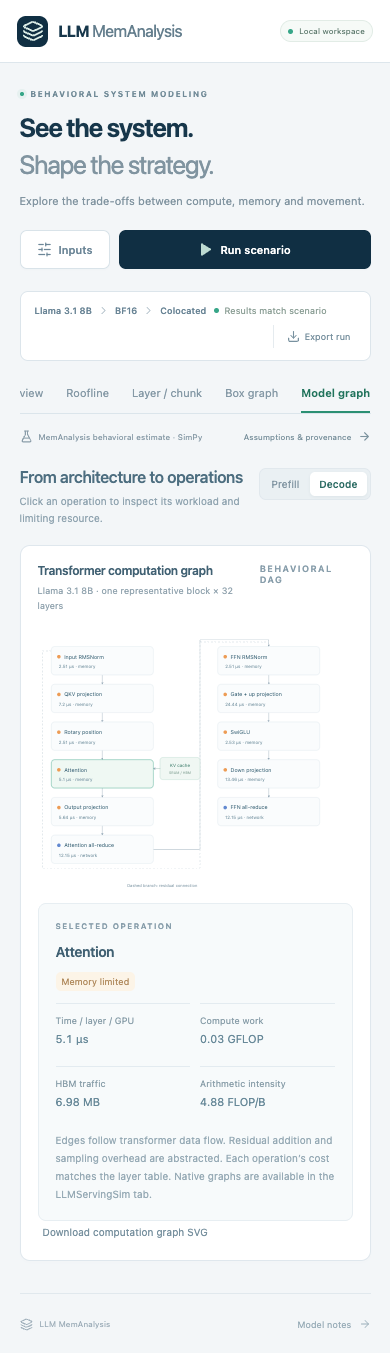
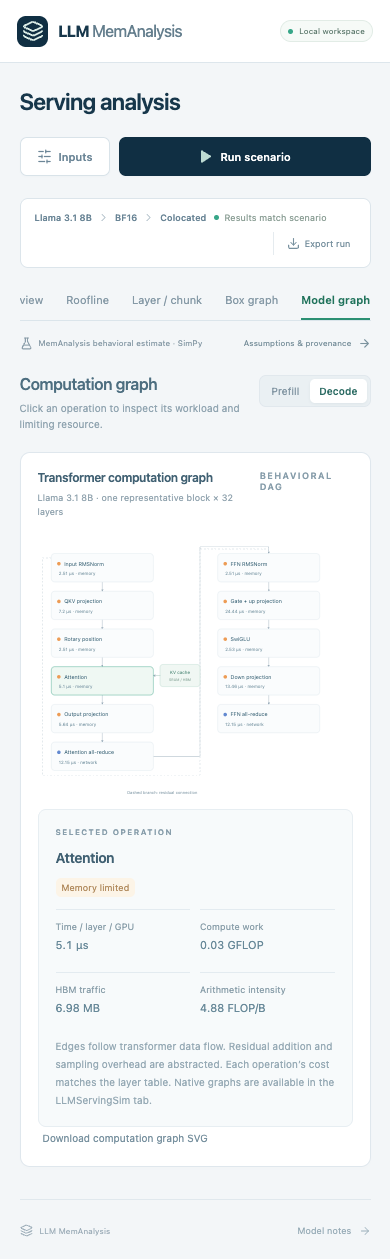
Use concise professional interface headings

diff --git a/src/main.tsx b/src/main.tsx
@@ -760,7 +760,7 @@ function Native({
         </div>
         <div>
           <div className="label">PROFILE-DRIVEN REFERENCE ENGINE</div>
-          <h2>Run KAIST’s LLMServingSim 2.0</h2>
+          <h2>LLMServingSim 2.0</h2>
           <p>
             Execute its native scheduler, Chakra graph generator and ASTRA-Sim
             analytical backend on this machine. Uses published operation
@@ -896,7 +896,7 @@ function Native({
           {!job ? (
             <div className="empty-native">
               <GitBranch size={44} />
-              <h3>A real simulator run, end to end.</h3>
+              <h3>No simulation results</h3>
               <p>
                 Run the small reference experiment to inspect native request
                 metrics and its actual computation DAG. Behavioral hardware
@@ -1331,7 +1331,7 @@ function App() {
             </button>
           </div>
           <div className="sidebar-intro">
-            A few hardware facts. A system-level view.
+            Model, workload, hardware and topology.
           </div>
           <Section title="Model & workload" initial>
             <label className="field vertical">
@@ -1556,18 +1556,9 @@ function App() {
         </aside>
         <main>
           <div className="page-heading">
-            <div>
-              <div className="eyebrow">
-                <i />
-                BEHAVIORAL SYSTEM MODELING
-              </div>
-              <h1>
-                See the system.<span> Shape the strategy.</span>
-              </h1>
-              <p>
-                Explore the trade-offs between compute, memory and movement.
-              </p>
-            </div>
+            <h1>
+              {tab === "native" ? "Native simulation" : "Serving analysis"}
+            </h1>
             <div className="run-actions">
               {tab === "native" ? (
                 <button
@@ -1713,7 +1704,7 @@ function App() {
                     <section className="card insight-card">
                       <div className="card-head">
                         <div>
-                          <h3>Where the time goes</h3>
+                          <h3>Resource service demand</h3>
                           <p>
                             Accumulated resource work · compute and memory
                             overlap
@@ -1808,7 +1799,7 @@ function App() {
                 <>
                   <div className="section-toolbar">
                     <div>
-                      <h2>Compute or bandwidth?</h2>
+                      <h2>Performance roofline</h2>
                       <p>
                         See which resource limits each transformer operation.
                       </p>
@@ -1938,7 +1929,7 @@ function App() {
                 <>
                   <div className="section-toolbar">
                     <div>
-                      <h2>Behavior over time</h2>
+                      <h2>Execution timeline</h2>
                       <p>
                         Pipeline overlap, resource occupancy and request-level
                         distributions.
@@ -1953,7 +1944,7 @@ function App() {
                 <>
                   <div className="section-toolbar">
                     <div>
-                      <h2>From architecture to operations</h2>
+                      <h2>Computation graph</h2>
                       <p>
                         Click an operation to inspect its workload and limiting
                         resource.
@@ -1968,7 +1959,7 @@ function App() {
                 <>
                   <div className="section-toolbar">
                     <div>
-                      <h2>A reproducible scenario</h2>
+                      <h2>Run configuration</h2>
                       <p>
                         Every estimate carries its inputs, formulas, units and
                         source revision.
@@ -2058,7 +2049,7 @@ function App() {
             <div className="card-head">
               <div>
                 <div className="label">SCOPE & PROVENANCE</div>
-                <h2>Two engines. Clear boundaries.</h2>
+                <h2>Simulation methods and provenance</h2>
               </div>
               <button
                 aria-label="Close methodology"

diff --git a/src/styles.css b/src/styles.css
@@ -423,38 +423,14 @@ main {
   gap: 20px;
   margin-bottom: 26px;
 }
-.eyebrow {
-  font-size: 9px;
-  font-weight: 650;
-  letter-spacing: 1.5px;
-  color: #708a97;
-  display: flex;
-  align-items: center;
-  gap: 7px;
-  margin: 2px 0 12px;
-}
-.eyebrow i {
-  width: 4px;
-  height: 4px;
-  box-shadow: 0 0 0 3px #37a68812;
-}
+
 h1 {
-  font-size: 27px;
-  font-weight: 650;
-  letter-spacing: -1.1px;
-  line-height: 1.25;
+  font-size: 24px;
+  font-weight: 600;
+  letter-spacing: -0.6px;
+  line-height: 1.3;
 }
-h1 > span {
-  color: #8094a0;
-  font-weight: 400;
-  display: block;
-  margin-top: 4px;
-}
-.page-heading p {
-  font-size: 11px;
-  color: #8295a1;
-  margin-top: 12px;
-}
+
 .run-actions {
   display: flex;
   gap: 9px;
@@ -1499,12 +1475,9 @@ td b {
     margin-bottom: 30px;
   }
   h1 {
-    font-size: 32px;
+    font-size: 26px;
   }
-  h1 > span {
-    display: inline;
-    margin: 0;
-  }
+
   .kpi-value {
     font-size: 36px;
   }
@@ -1538,10 +1511,10 @@ td b {
     padding: 27px 24px 0;
   }
   .page-heading {
-    align-items: flex-end;
+    align-items: center;
   }
   h1 {
-    font-size: 25px;
+    font-size: 24px;
   }
   .run-actions {
     flex-direction: column;
@@ -1723,14 +1696,12 @@ td b {
     flex-wrap: wrap;
     gap: 20px;
   }
-  .page-heading p {
-    font-size: 12px;
-  }
+
   .run-actions .pin-button {
     display: none;
   }
   .page-heading h1 {
-    font-size: 28px;
+    font-size: 24px;
   }
   .run-actions .primary {
     padding: 11px 16px;
@@ -1904,14 +1875,9 @@ td b {
     margin-bottom: 22px;
   }
   .page-heading h1 {
-    font-size: 26px;
+    font-size: 23px;
   }
-  .page-heading p {
-    font-size: 11px;
-  }
-  .eyebrow {
-    font-size: 8px;
-  }
+
   .run-actions {
     justify-content: space-between;
     width: 100%;

diff --git a/tests/browser/app.spec.ts b/tests/browser/app.spec.ts
@@ -21,11 +21,11 @@ test("six outputs, scenario fingerprint, reproducible exports and capacity error
   await expect(page.getByText("Results match scenario")).toBeVisible();
   await expect(page.getByText("vs pinned").first()).toBeVisible();
   for (const [name, file, check] of [
-    ["Roofline", "roofline", "Compute or bandwidth?"],
+    ["Roofline", "roofline", "Performance roofline"],
     ["Layer / chunk", "layers", "Layer and chunk detail"],
-    ["Box graph", "boxes", "Behavior over time"],
-    ["Model graph", "computation-graph", "From architecture to operations"],
-    ["Configuration", "configuration", "A reproducible scenario"],
+    ["Box graph", "boxes", "Execution timeline"],
+    ["Model graph", "computation-graph", "Computation graph"],
+    ["Configuration", "configuration", "Run configuration"],
   ]) {
     await page.getByRole("button", { name, exact: true }).click();
     await expect(
